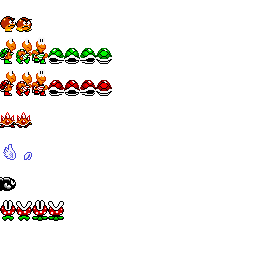
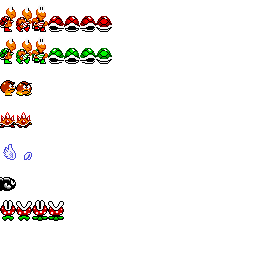
Red coopa issue fixed.

Changed region(s): [[0.0, 0.2812, 0.4375, 0.375], [0.0, 0.0312, 0.4375, 0.125]]

diff --git a/src/ch/idsia/mario/engine/level/LevelGenerator.java b/src/ch/idsia/mario/engine/level/LevelGenerator.java
@@ -132,6 +132,36 @@ public class LevelGenerator
 
             return flag;
         }
+
+        public static boolean canBeWinged(int num)
+        {
+            switch (num)
+            {
+                case 0: return false; //goomba
+                case 1: return false; //green coopa
+                case 2: return false; //red coopa
+                case 3: return false; //spiky
+                case 4: return true; //winged green coopa
+                case 5: return true; //winged red coopa
+                case 6: return true; //winged spiky
+            }
+            return false;
+        }
+
+        public static int getNativeType(int num)
+        {
+            switch (num)
+            {
+                case 0: return Enemy.ENEMY_GOOMBA; //goomba
+                case 1: return Enemy.ENEMY_GREEN_KOOPA; //green coopa
+                case 2: return Enemy.ENEMY_RED_KOOPA; //red coopa
+                case 3: return Enemy.ENEMY_SPIKY; //spiky
+                case 4: return Enemy.ENEMY_GREEN_KOOPA; //winged green coopa
+                case 5: return Enemy.ENEMY_RED_KOOPA; //winged red coopa
+                case 6: return Enemy.ENEMY_SPIKY; //winged spiky
+            }
+            return -1;
+        }
     }
 
     public static final int TYPE_OVERGROUND = 0;
@@ -739,7 +769,7 @@ public class LevelGenerator
             if (creaturesRandom.nextInt(35) < levelDifficulty + 1)
             {
                 if (creatures.isComplete())
-                { //levelDifficulty of creatures on the level depends on the levelDifficulty of the level
+                { //Difficulty of creatures on the level depends on the levelDifficulty of the level
                     int type = creaturesRandom.nextInt(4);
                     if (levelDifficulty < 1)
                     {
@@ -760,6 +790,7 @@ public class LevelGenerator
                         creaturesRandom.nextInt(3);
                     }
                     Random locRnd = new Random();
+                    //TODO: locRnd.setSeed();
                     do
                     {
                         crType = locRnd.nextInt(7);
@@ -774,12 +805,9 @@ public class LevelGenerator
                     }
                     while (!allowable);
 
-                    boolean winged = (crType > 3);
-                    if (crType > 3)
-                    {
-                        crType -= 3;
-                    }
-                    level.setSpriteTemplate(x, y, new SpriteTemplate(crType, winged));
+                    boolean winged = (creatures.canBeWinged(crType));
+                    int t = creatures.getNativeType(crType);
+                    level.setSpriteTemplate(x, y, new SpriteTemplate(t, winged));
                 }
             }
         }

diff --git a/src/ch/idsia/mario/engine/sprites/Enemy.java b/src/ch/idsia/mario/engine/sprites/Enemy.java
@@ -8,19 +8,19 @@ import java.awt.*;
 
 public class Enemy extends Sprite
 {
-    /*public static final int ENEMY_RED_KOOPA = 0;
+    public static final int ENEMY_RED_KOOPA = 0;
     public static final int ENEMY_GREEN_KOOPA = 1;
     public static final int ENEMY_GOOMBA = 2;
     public static final int ENEMY_SPIKY = 3;
-    public static final int ENEMY_FLOWER = 4*/
-    public static final int ENEMY_GOOMBA = 0;
+    public static final int ENEMY_FLOWER = 4;
+    /*public static final int ENEMY_GOOMBA = 0;
     public static final int ENEMY_GREEN_KOOPA = 1;
     public static final int ENEMY_RED_KOOPA = 2;
     public static final int ENEMY_SPIKY = 3;
     public static final int ENEMY_WINGED_GREEN_KOOPA = 1;
     public static final int ENEMY_WINGED_RED_KOOPA = 2;
     public static final int ENEMY_WINGED_SPIKY = 3;
-    public static final int ENEMY_FLOWER = 4;
+    public static final int ENEMY_FLOWER = 4;*/
 
     private float runTime;
     private boolean onGround = false;
